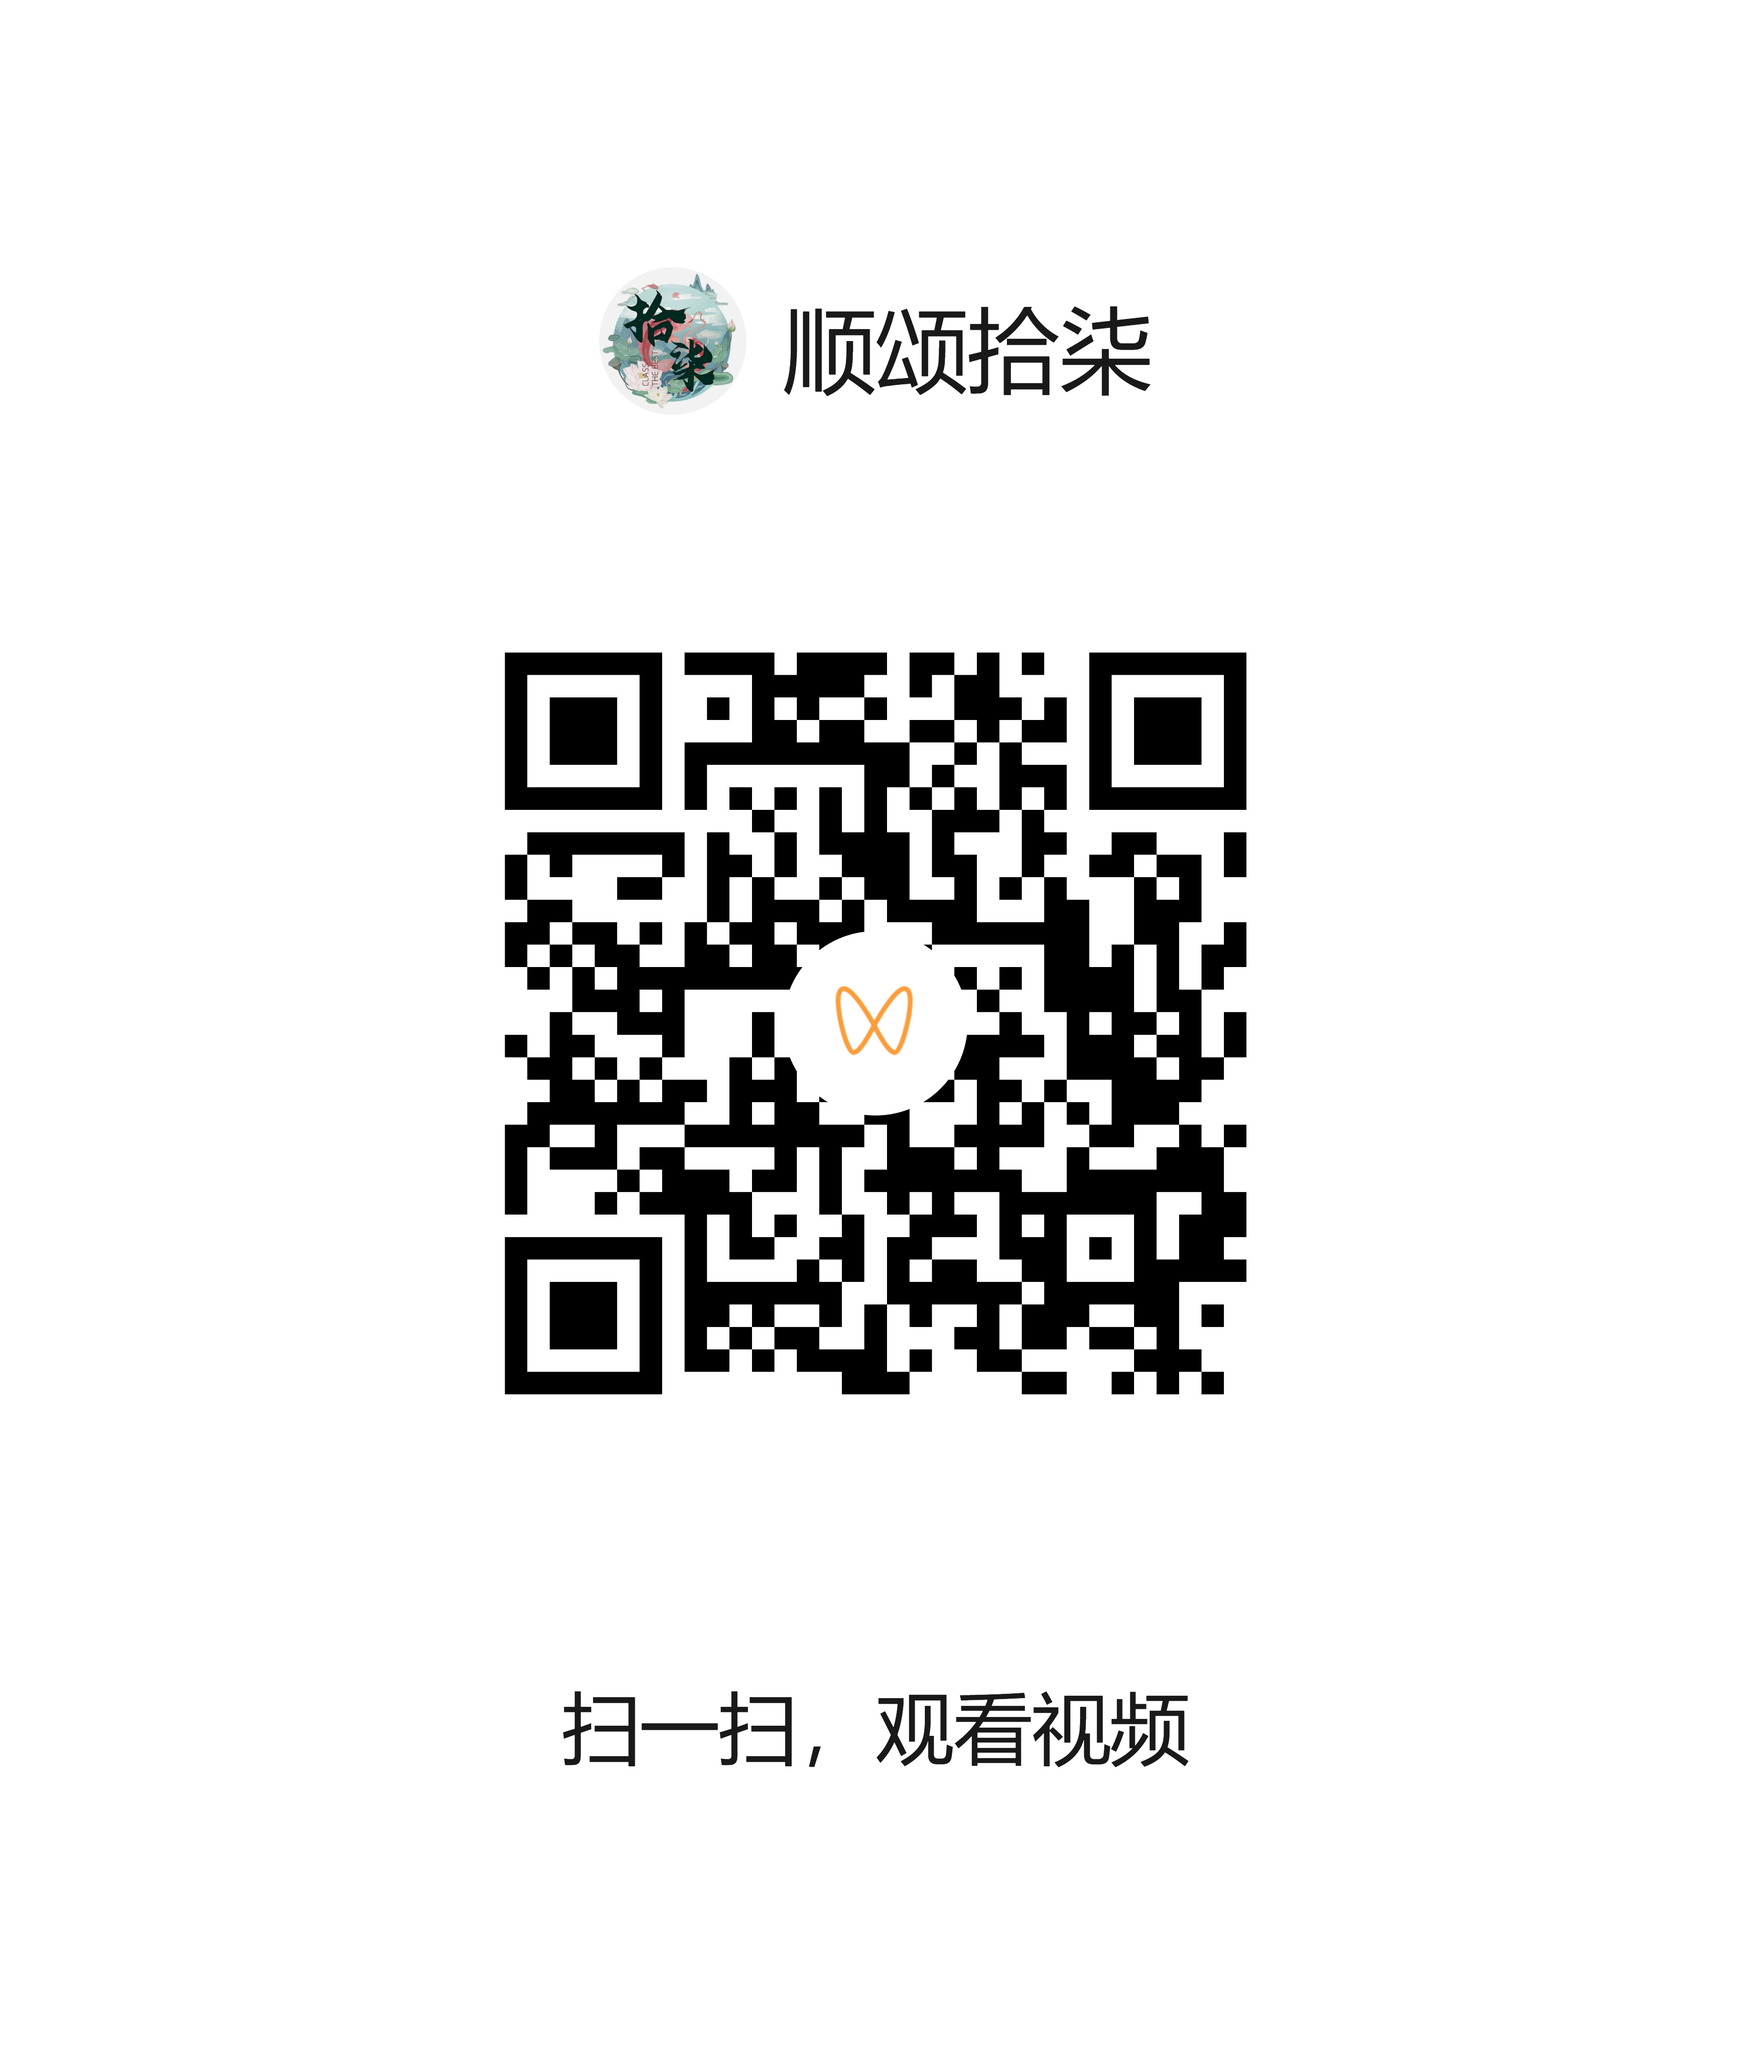
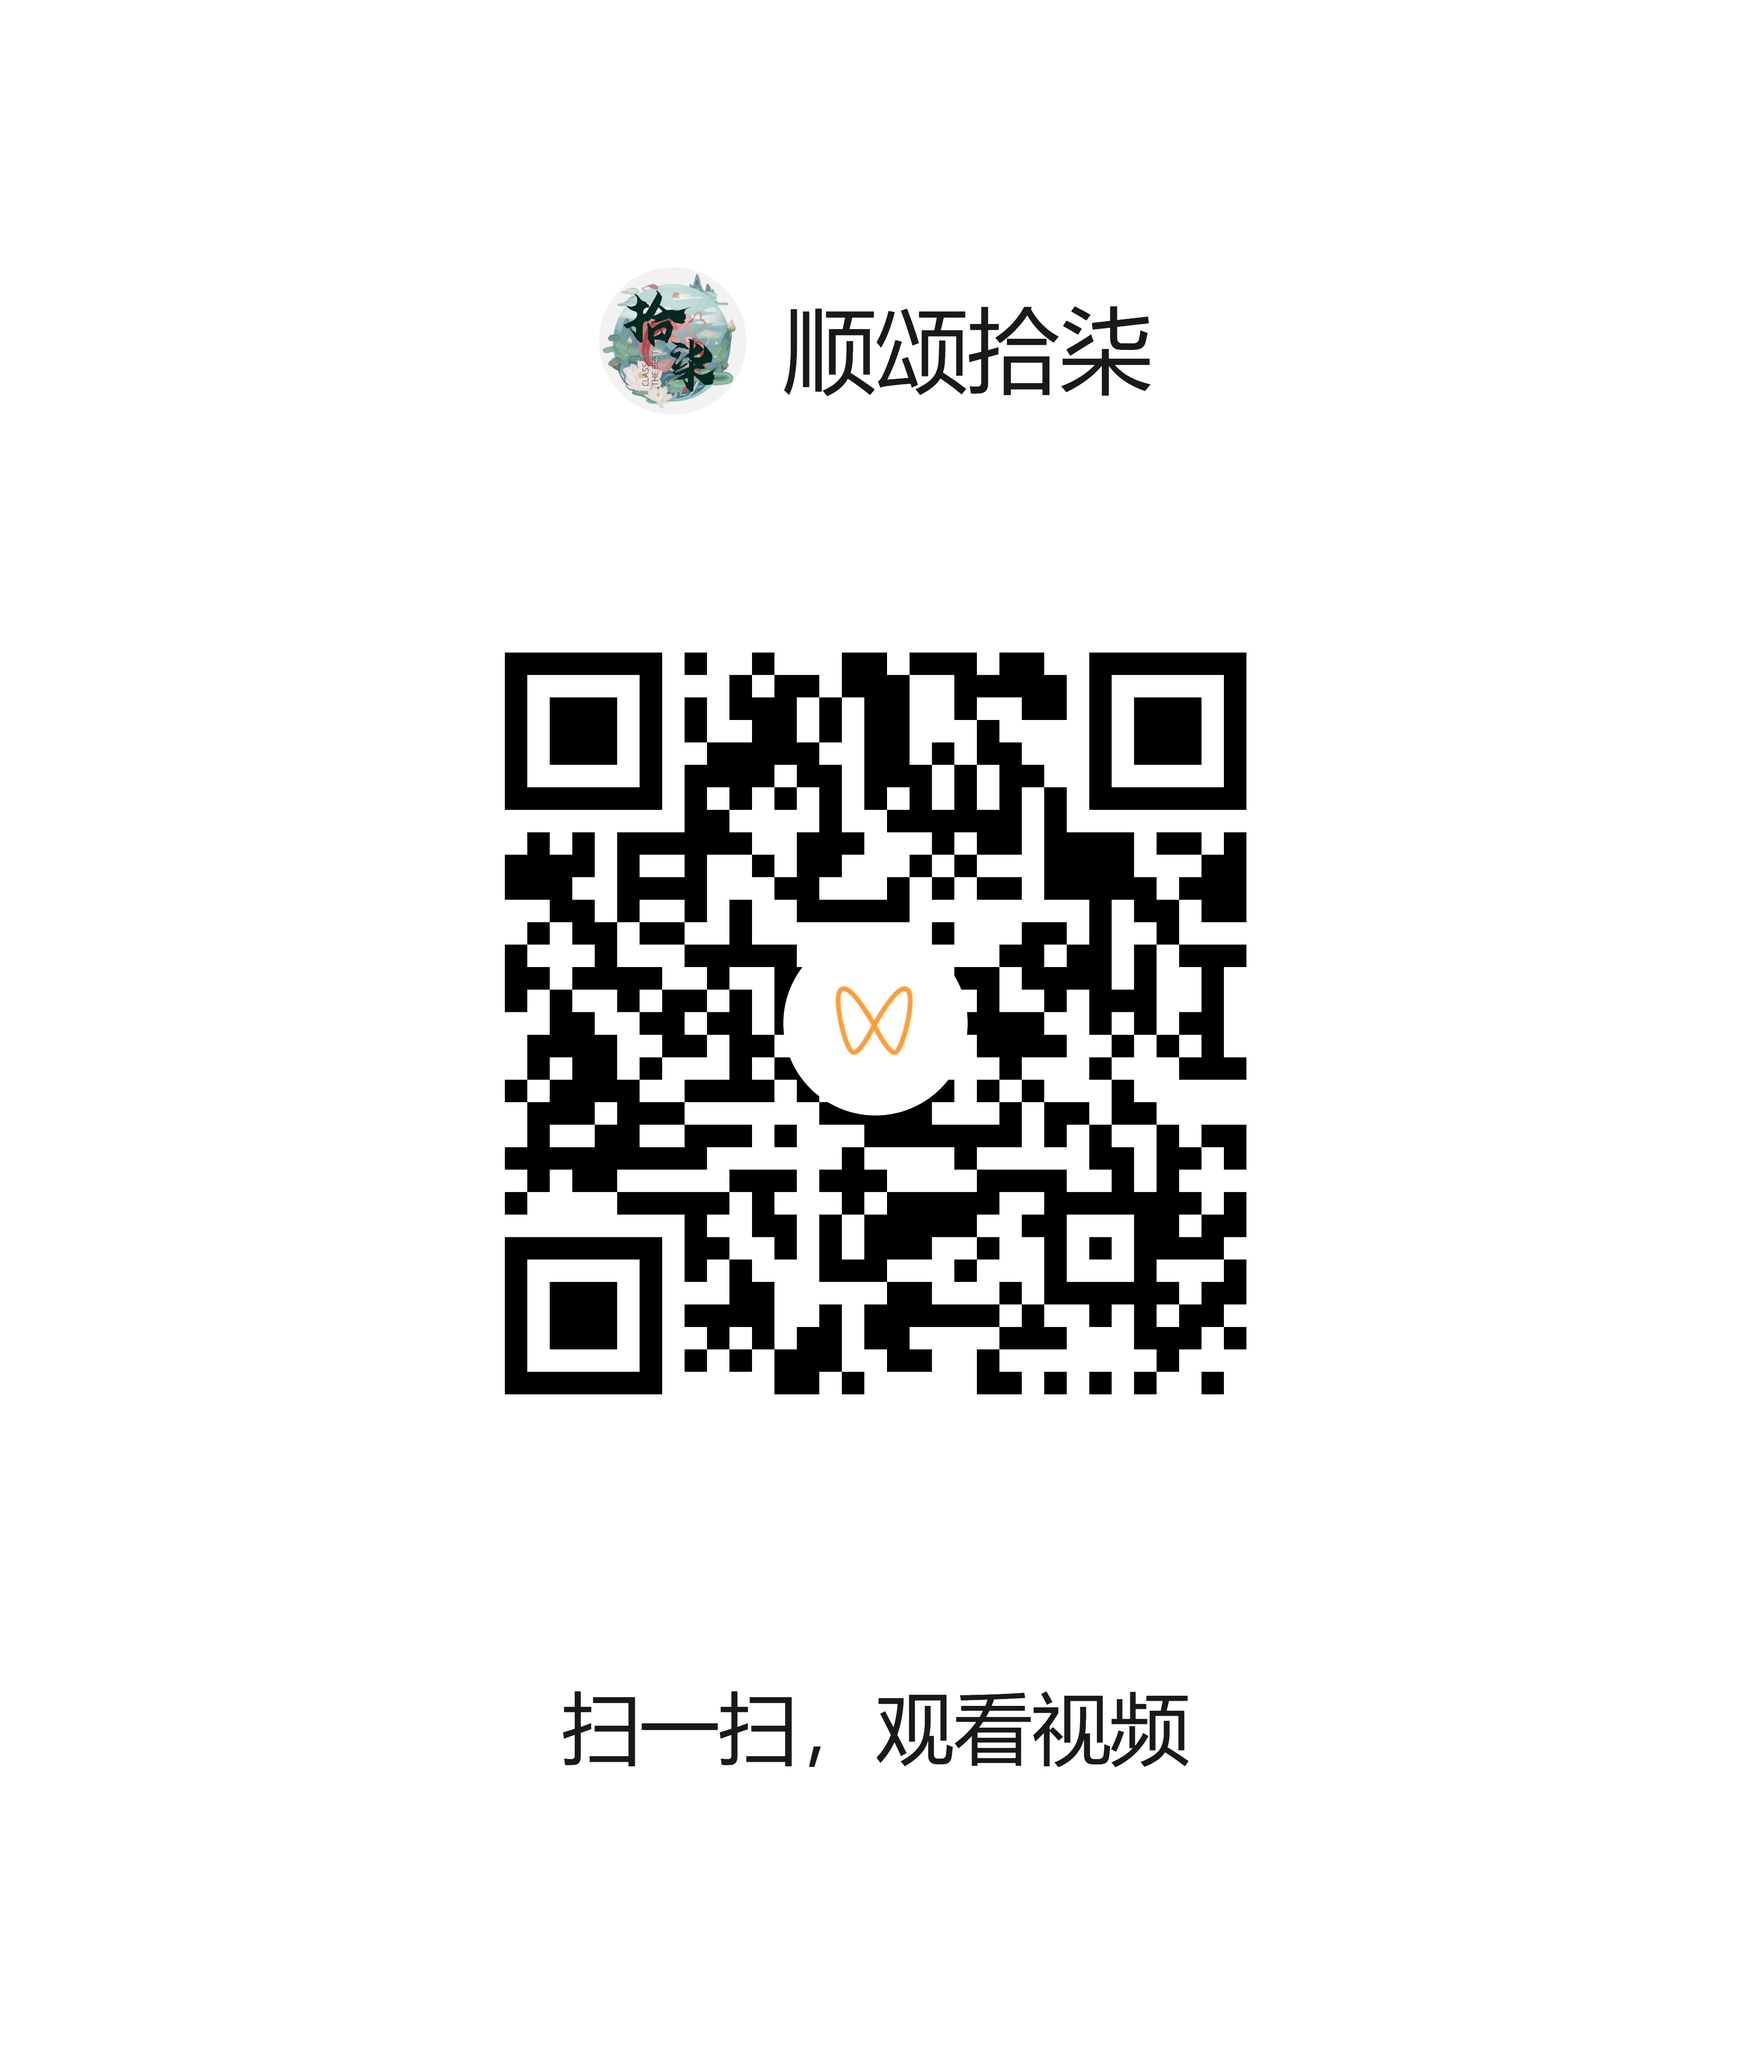
1

Changed region(s): [[0.2795, 0.3125, 0.7142, 0.6875]]

diff --git a/_projects/Sing.md b/_projects/Sing.md
@@ -6,13 +6,17 @@ img: assets/img/sing.png
 importance: 8
 category: fun
 ---
-请使用微信扫描以下二维码观看视频
-
+请使用微信扫描以下二维码观看视频<br>
+参赛视频：<br>
 <div class="row">
     <div class="col-sm mt-3 mt-md-0">
         {% include figure.html path="assets/img/视频二维码.png" title="image" class="img-fluid rounded z-depth-1" %}
     </div>
 </div>
 
-
-
+领唱版：<br>
+<div class="row">
+    <div class="col-sm mt-3 mt-md-0">
+        {% include figure.html path="assets/img/视频二维码(1).png" title="image" class="img-fluid rounded z-depth-1" %}
+    </div>
+</div>
